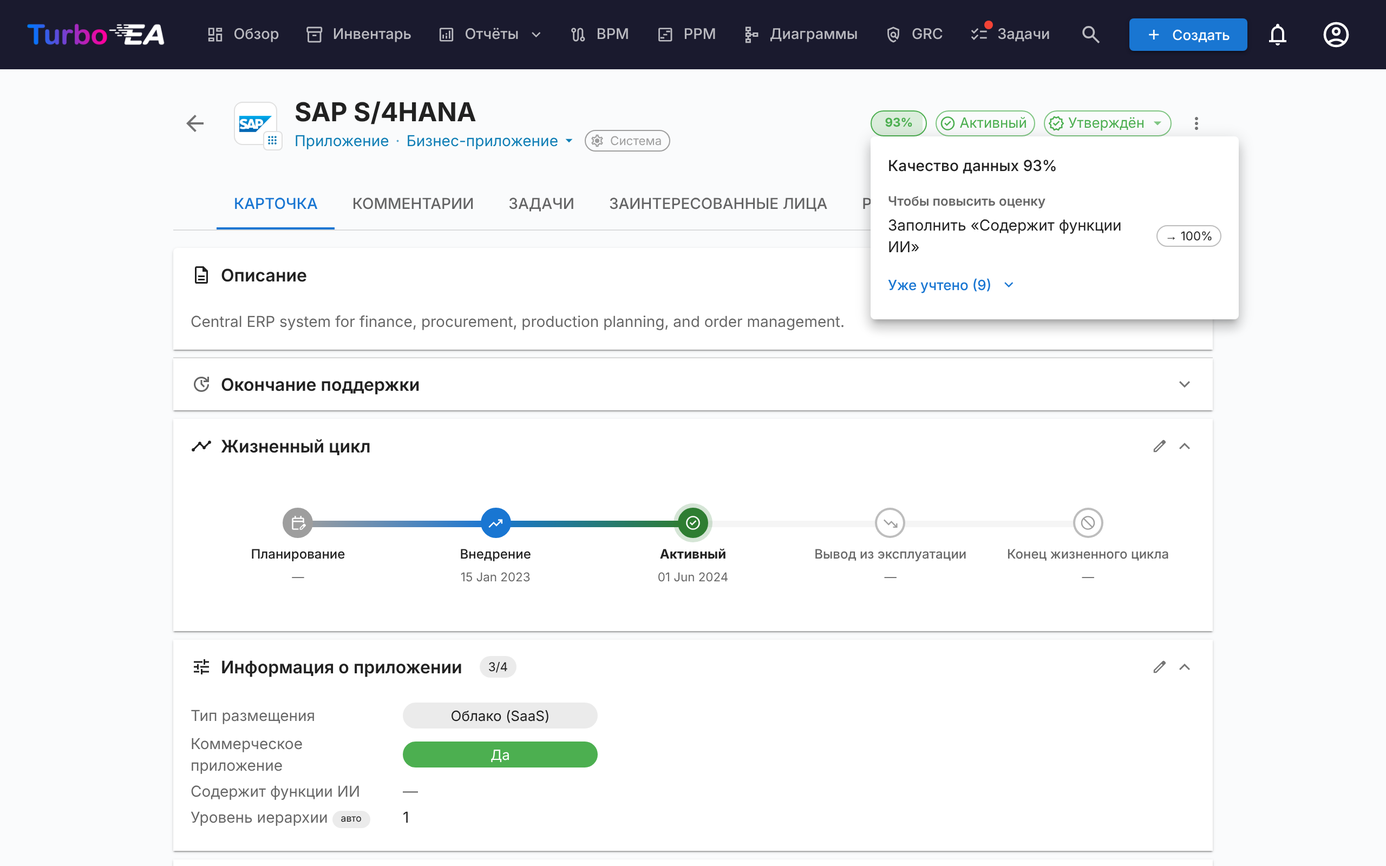
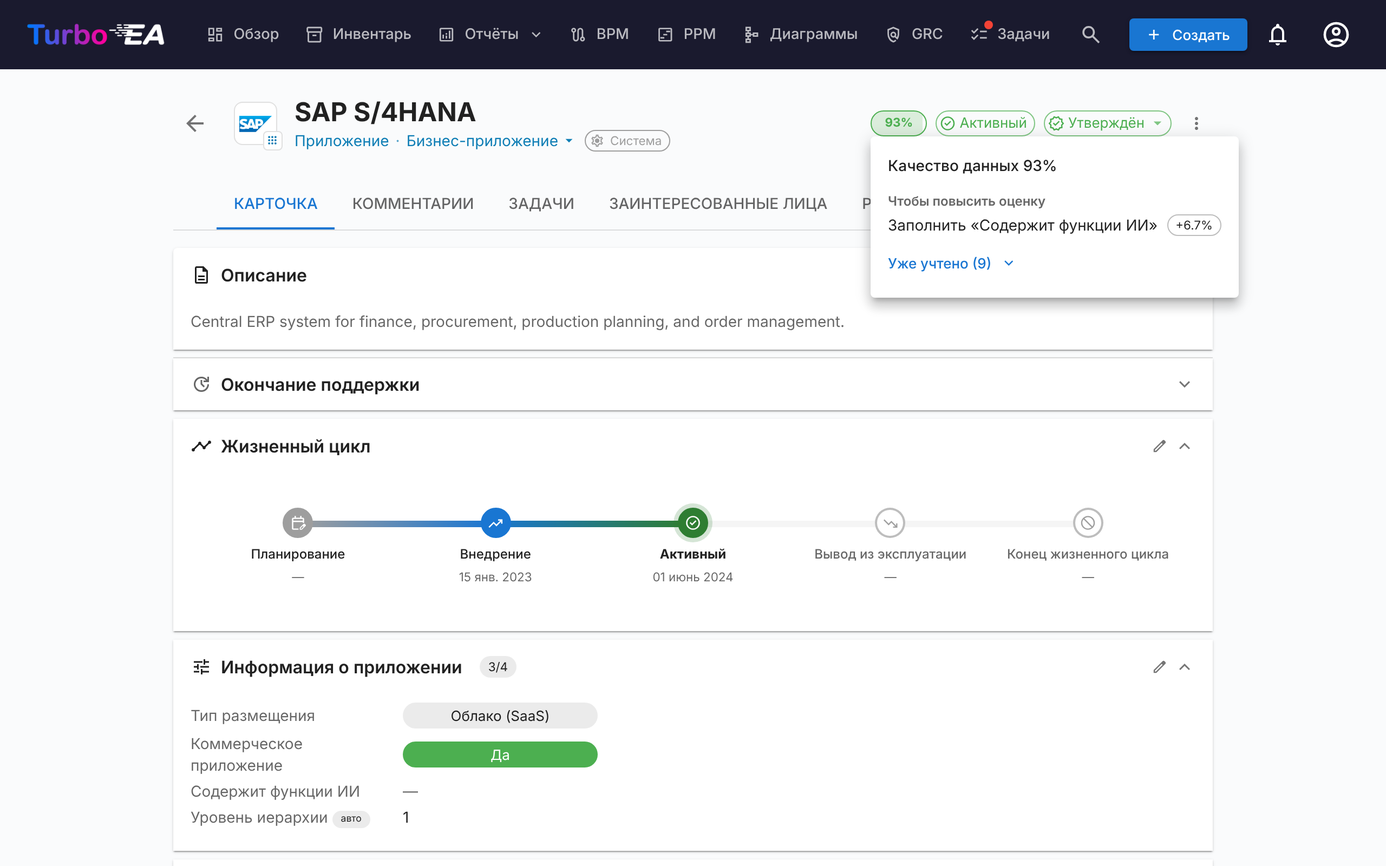
Show how many points each slot adds instead of the score it would reach
Testing feedback: a reader wants to see by how much each slot raises the
score, not the total it would land on. The breakdown now carries `gain`
(the slot's weight over the total, rounded like the score) and the
tooltip and popover print it as "+12.5%"; `score_if_filled` stays in the
payload. Ranking is by gain, which orders the same. Docs, the ten
screenshots and the changelog entry follow; the locale strings are pure
placeholders, so they are updated in place.

Claude-Session: https://claude.ai/code/session_01Ta83Qyy54YWobhp9a3NRKN

diff --git a/frontend/src/features/cards/sections/DataQualityPill.test.tsx b/frontend/src/features/cards/sections/DataQualityPill.test.tsx
@@ -54,14 +54,18 @@ const RELATION_TYPES = [
   },
 ] as unknown as RelationType[];
 
+/** The fixture card sits at 37.5%, so a slot's target score is that plus its gain. */
+const BASE_SCORE = 37.5;
+
 function factor(
   kind: DataQualityFactor["kind"],
   key: string,
   filled: boolean,
-  score_if_filled: number | null,
+  gain: number | null,
   extra: Partial<DataQualityFactor> = {},
 ): DataQualityFactor {
-  return { kind, key, weight: 1, filled, score_if_filled, ...extra };
+  const score_if_filled = gain === null ? null : Math.round((BASE_SCORE + gain) * 10) / 10;
+  return { kind, key, weight: 1, filled, gain, score_if_filled, ...extra };
 }
 
 /** Five unmet slots (one clear winner, then ties in server order), two met. */
@@ -73,16 +77,16 @@ const BREAKDOWN: DataQualityBreakdown = {
   blocked_by_required: [],
   factors: [
     factor("field", "team", true, null, { section: "Details" }),
-    factor("field", "cost", false, 62.5, { section: "Details", weight: 2 }),
+    factor("field", "cost", false, 25, { section: "Details", weight: 2 }),
     factor("description", "description", true, null),
-    factor("lifecycle", "lifecycle", false, 50),
-    factor("relation", "relOrgToApp", false, 50, {
+    factor("lifecycle", "lifecycle", false, 12.5),
+    factor("relation", "relOrgToApp", false, 12.5, {
       side: "target",
       other_type_key: "Organization",
       label: "is owned by",
     }),
-    factor("tag_group", "g-1", false, 50, { name: "Criticality" }),
-    factor("stakeholders", "stakeholders", false, 50),
+    factor("tag_group", "g-1", false, 12.5, { name: "Criticality" }),
+    factor("stakeholders", "stakeholders", false, 12.5),
   ],
 };
 
@@ -127,10 +131,10 @@ describe("DataQualityPill", () => {
     const lines = Array.from(tip.querySelectorAll(".MuiTypography-root")).map((el) => el.textContent);
     expect(lines).toEqual([
       "38% data quality",
-      "Fill Annual Cost → 62.5%",
-      "Set lifecycle dates → 50%",
+      "Fill Annual Cost +25%",
+      "Set lifecycle dates +12.5%",
       // A target-side relation reads with its reverse verb.
-      "Add relation: is owned by Organization → 50%",
+      "Add relation: is owned by Organization +12.5%",
       "+2 more · click for details",
     ]);
     // Already-counted slots are not suggestions.
@@ -152,7 +156,7 @@ describe("DataQualityPill", () => {
     });
     renderPill();
     const tip = await hoverPill();
-    await waitFor(() => expect(tip).toHaveTextContent("Set lifecycle dates → 50%"));
+    await waitFor(() => expect(tip).toHaveTextContent("Set lifecycle dates +12.5%"));
     expect(tip).not.toHaveTextContent("more");
   });
 
@@ -161,16 +165,16 @@ describe("DataQualityPill", () => {
       ...BREAKDOWN,
       // Served smallest gain first, and one tag group without a name.
       factors: [
-        factor("tag_group", "g-9", false, 30, { name: null }),
-        factor("lifecycle", "lifecycle", false, 50),
-        factor("field", "cost", false, 62.5, { section: "Details", weight: 2 }),
+        factor("tag_group", "g-9", false, 5, { name: null }),
+        factor("lifecycle", "lifecycle", false, 12.5),
+        factor("field", "cost", false, 25, { section: "Details", weight: 2 }),
       ],
     });
     renderPill();
     const tip = await hoverPill();
-    await waitFor(() => expect(tip).toHaveTextContent("Tag with → 30%"));
+    await waitFor(() => expect(tip).toHaveTextContent("Tag with +5%"));
     expect(tip).toHaveTextContent(
-      "38% data qualityFill Annual Cost → 62.5%Set lifecycle dates → 50%Tag with → 30%",
+      "38% data qualityFill Annual Cost +25%Set lifecycle dates +12.5%Tag with +5%",
     );
     expect(tip).not.toHaveTextContent("more");
   });
@@ -284,11 +288,11 @@ describe("DataQualityPill", () => {
       .getAllByRole("listitem")
       .map((li) => li.textContent);
     expect(rows).toEqual([
-      "Fill Annual Cost→ 62.5%",
-      "Set lifecycle dates→ 50%",
-      "Add relation: is owned by Organization→ 50%",
-      "Tag with Criticality→ 50%",
-      "Assign a stakeholder→ 50%",
+      "Fill Annual Cost+25%",
+      "Set lifecycle dates+12.5%",
+      "Add relation: is owned by Organization+12.5%",
+      "Tag with Criticality+12.5%",
+      "Assign a stakeholder+12.5%",
     ]);
     // Counted slots sit behind a toggle, by name.
     expect(within(dialog).queryByText("Team")).not.toBeInTheDocument();
@@ -318,7 +322,7 @@ describe("DataQualityPill", () => {
       blocked_by_required: ["code", "cost"],
       // `code` weighs less than the optional lifecycle slot: by gain alone it
       // would sink below the slots that cannot move the score yet.
-      factors: [...BREAKDOWN.factors, factor("field", "code", false, 45.8, { section: "Details" })],
+      factors: [...BREAKDOWN.factors, factor("field", "code", false, 8.3, { section: "Details" })],
     });
     renderPill(0);
     const tip = await hoverPill();
@@ -328,7 +332,7 @@ describe("DataQualityPill", () => {
     // The gating fields lead, marked as required rather than with a figure
     // that filling them alone cannot reach.
     expect(tip).toHaveTextContent(
-      "Fill Annual Cost → requiredFill Business Code → requiredSet lifecycle dates → 50%+3 more",
+      "Fill Annual Cost → requiredFill Business Code → requiredSet lifecycle dates +12.5%+3 more",
     );
     await userEvent.unhover(screen.getByText("0%"));
     await userEvent.click(screen.getByTestId("data-quality-pill"));
@@ -343,7 +347,7 @@ describe("DataQualityPill", () => {
     expect(rows.slice(0, 3)).toEqual([
       "Fill Annual Cost→ required",
       "Fill Business Code→ required",
-      "Set lifecycle dates→ 50%",
+      "Set lifecycle dates+12.5%",
     ]);
   });
 
@@ -352,12 +356,12 @@ describe("DataQualityPill", () => {
     vi.mocked(api.get).mockResolvedValue({
       ...BREAKDOWN,
       factors: [
-        factor("relation", "relOrgToApp", false, 50, {
+        factor("relation", "relOrgToApp", false, 12.5, {
           side: "source",
           other_type_key: "Application",
           label: "owns",
         }),
-        factor("relation", "relOrgToApp", false, 50, {
+        factor("relation", "relOrgToApp", false, 12.5, {
           side: "target",
           other_type_key: "Organization",
           label: "is owned by",
@@ -376,7 +380,7 @@ describe("DataQualityPill", () => {
   it("never shows a field's key when the metamodel does not know the field", async () => {
     vi.mocked(api.get).mockResolvedValue({
       ...BREAKDOWN,
-      factors: [factor("field", "ghostField", false, 80), factor("relation", "ghostRel", false, 70)],
+      factors: [factor("field", "ghostField", false, 42.5), factor("relation", "ghostRel", false, 32.5)],
       blocked_by_required: ["ghostField"],
     });
     renderPill();

diff --git a/frontend/src/features/cards/sections/DataQualityPill.tsx b/frontend/src/features/cards/sections/DataQualityPill.tsx
@@ -54,7 +54,7 @@ function rankUnmet(factors: DataQualityFactor[], blocked: string[]): DataQuality
   return factors
     .filter((f) => !f.filled)
     .sort(
-      (a, b) => unlocks(b) - unlocks(a) || (b.score_if_filled ?? 0) - (a.score_if_filled ?? 0),
+      (a, b) => unlocks(b) - unlocks(a) || (b.gain ?? 0) - (a.gain ?? 0),
     );
 }
 
@@ -167,13 +167,13 @@ export function DataQualityPill({
   const blocked = useMemo(() => data?.blocked_by_required ?? [], [data]);
   const unmet = useMemo(() => (data ? rankUnmet(data.factors, blocked) : []), [data, blocked]);
   const met = useMemo(() => (data ? data.factors.filter((f) => f.filled) : []), [data]);
-  // What filling the slot does to the score. A gating field shows no figure:
-  // its own `score_if_filled` is unreachable while another required field is
-  // still empty, and the alert already says what the score would be.
+  // What filling the slot adds to the score. A gating field shows no figure:
+  // nothing moves the score while another required field is still empty, and
+  // the alert already says what the score would be.
   const gain = (f: DataQualityFactor) =>
     unlocksScore(f, blocked)
       ? t("dataQuality.required")
-      : t("dataQuality.raiseTo", { pct: f.score_if_filled });
+      : t("dataQuality.raiseTo", { pct: f.gain });
 
   const headline = t("utils.dataQuality", { value: v });
   const tooltip =

diff --git a/frontend/src/types/index.ts b/frontend/src/types/index.ts
@@ -629,6 +629,8 @@ export interface DataQualityFactor {
   filled: boolean;
   /** The score the card would reach with this slot filled too; null once it counts. */
   score_if_filled: number | null;
+  /** How many points filling this slot adds to the score; null once it counts. */
+  gain: number | null;
   /** Field: the section it sits in. */
   section?: string | null;
   /** Relation: which end this card is on, and the other end's card type. */

diff --git a/backend/tests/services/test_data_quality.py b/backend/tests/services/test_data_quality.py
@@ -998,6 +998,23 @@ class TestScoreBreakdown:
 
         empty = ScoreBreakdown(0.0, 0.0, 0.0, 0.0, [], [])
         assert empty.score_if_filled(Factor("field", "a", 1.0, False)) == 0.0
+        assert empty.gain(Factor("field", "a", 1.0, False)) == 0.0
+
+    async def test_gain_is_the_slot_weight_over_the_total(self):
+        from app.services.data_quality import CardFacts, score_breakdown
+
+        ctx, _ = _breakdown_ctx()
+        bd = score_breakdown(self._card(), ctx, CardFacts())
+        by_key = {f.key: f for f in bd.factors}
+        # Of 13: b weighs 2, relB 2, stakeholders 3, a 1 — rounded to one decimal.
+        assert bd.gain(by_key["b"]) == 15.4
+        assert bd.gain(by_key["relB"]) == 15.4
+        assert bd.gain(by_key["stakeholders"]) == 23.1
+        assert bd.gain(by_key["a"]) == 7.7
+        # Gain and target agree: filling b alone lands on ungated + gain (to rounding).
+        assert (
+            abs(bd.score_if_filled(by_key["b"]) - (bd.ungated_score + bd.gain(by_key["b"]))) < 0.11
+        )
 
     async def test_nothing_to_score_is_an_empty_breakdown(self):
         from app.services.data_quality import CardFacts, score_breakdown

diff --git a/backend/tests/api/test_data_quality_breakdown.py b/backend/tests/api/test_data_quality_breakdown.py
@@ -123,8 +123,16 @@ async def test_lists_every_slot_and_what_filling_it_would_reach(client, env):
         ("tag_group", str(env["group"].id)): 50.0,
         ("stakeholders", "stakeholders"): 50.0,
     }
+    # What each unmet slot adds: its weight over the total of 8.
+    assert {k: f["gain"] for k, f in rows.items() if not f["filled"]} == {
+        ("field", "cost"): 25.0,
+        ("lifecycle", "lifecycle"): 12.5,
+        ("tag_group", str(env["group"].id)): 12.5,
+        ("stakeholders", "stakeholders"): 12.5,
+    }
     # A slot that already counts has nothing to gain.
     assert rows[("field", "team")]["score_if_filled"] is None
+    assert rows[("field", "team")]["gain"] is None
     assert rows[("field", "team")]["section"] == "Details"
     rel = rows[("relation", "relAppToOrg")]
     assert rel["filled"] is True

diff --git a/backend/app/services/data_quality.py b/backend/app/services/data_quality.py
@@ -216,6 +216,12 @@ class ScoreBreakdown:
             return 0.0
         return round((self.filled_weight + factor.weight) / self.total_weight * 100, 1)
 
+    def gain(self, factor: Factor) -> float:
+        """How many points filling ``factor`` adds to the (ungated) score."""
+        if not self.total_weight:
+            return 0.0
+        return round(factor.weight / self.total_weight * 100, 1)
+
 
 def score_breakdown(card: Card, ctx: ScoringContext, facts: CardFacts) -> ScoreBreakdown:
     """A card's data-quality score with every factor that went into it.

diff --git a/backend/app/schemas/card.py b/backend/app/schemas/card.py
@@ -298,6 +298,8 @@ class DataQualityFactor(BaseModel):
     filled: bool
     # The score the card would reach with this slot filled too (unmet only).
     score_if_filled: float | None = None
+    # How many points filling this slot adds to the score (unmet only).
+    gain: float | None = None
     section: str | None = None
     side: Literal["source", "target"] | None = None
     other_type_key: str | None = None

diff --git a/backend/app/api/v1/cards.py b/backend/app/api/v1/cards.py
@@ -1256,6 +1256,7 @@ async def get_data_quality_breakdown(
                 weight=f.weight,
                 filled=f.filled,
                 score_if_filled=None if f.filled else breakdown.score_if_filled(f),
+                gain=None if f.filled else breakdown.gain(f),
                 section=f.section,
                 side=f.side,
                 other_type_key=f.other_type_key,

diff --git a/docs/guide/card-details.ru.md b/docs/guide/card-details.ru.md
@@ -15,7 +15,7 @@
 - **Значок источника** — отображается, если карточка создана не в веб-интерфейсе: **MCP** — для карточки, созданной ИИ-ассистентом через [MCP-сервер](../admin/mcp.md), **API** — для скрипта или интеграции, **Расширение** — для установленного расширения, **Система** — для фонового задания. Наведите на него курсор, чтобы увидеть, кто и когда создал карточку: создателем остаётся человек, а значок показывает, каким каналом он воспользовался. Карточки, созданные в веб-интерфейсе, и карточки, созданные до того, как Turbo EA начал фиксировать канал, значка не имеют.
 - **Значок статуса утверждения** — Черновик, Утверждено, Нарушено или Отклонено
 - **Кнопка ИИ-подсказки** — нажмите для генерации описания с помощью ИИ (видна, когда ИИ включён для данного типа карточки и пользователь имеет права на редактирование)
-- **Кольцо качества данных** — визуальный индикатор полноты информации (0–100%). Наведите курсор, чтобы увидеть три пункта, которые сильнее всего повысили бы оценку, — у каждого указана оценка, которую карточка получит после заполнения (например, *Заполнить «Критичность для бизнеса» → 62,5%*). Нажмите на кольцо (или сфокусируйте его и нажмите Enter), чтобы открыть полную детализацию: все ещё не заполненные пункты в порядке убывания вклада и список **Уже учтено** с тем, что уже заполнено. Пока обязательное поле пусто, оценка остаётся равной 0%; детализация называет эти поля и показывает, какой была бы оценка без них.
+- **Кольцо качества данных** — визуальный индикатор полноты информации (0–100%). Наведите курсор, чтобы увидеть три пункта, которые сильнее всего повысили бы оценку, — у каждого указано, сколько баллов он добавит (например, *Заполнить «Критичность для бизнеса» +12,5%*). Нажмите на кольцо (или сфокусируйте его и нажмите Enter), чтобы открыть полную детализацию: все ещё не заполненные пункты в порядке убывания вклада и список **Уже учтено** с тем, что уже заполнено. Пока обязательное поле пусто, оценка остаётся равной 0%; детализация называет эти поля и показывает, какой была бы оценка без них.
 
 ![Всплывающее окно с детализацией качества данных](../assets/img/ru/63_kartochka_kachestvo_dannyh_detalizatsiya.png)
 - **Меню действий** — архивирование, удаление и действия по утверждению. Также содержит действие в один клик **Наблюдать за этой карточкой** (если для типа карточки определена роль Наблюдатель), позволяющее любому пользователю с правом просмотра следить за карточкой без перехода на вкладку Заинтересованные стороны.

diff --git a/docs/guide/card-details.ar.md b/docs/guide/card-details.ar.md
@@ -15,7 +15,7 @@
 - **شارة المصدر** — تظهر عندما لا تكون البطاقة قد أُنشئت في واجهة الويب: **MCP** لبطاقة أنشأها مساعد ذكاء اصطناعي عبر [خادم MCP](../admin/mcp.md)، و**API** لسكربت أو تكامل، و**إضافة** لإضافة مثبّتة، و**النظام** لمهمة في الخلفية. مرّر المؤشر فوقها لمعرفة من أنشأ البطاقة ومتى — يبقى الشخص هو المنشئ؛ وتبيّن الشارة القناة التي استخدمها. البطاقات المنشأة في واجهة الويب، وتلك المنشأة قبل أن يسجّل Turbo EA القناة، لا تُظهر شارة.
 - **شارة حالة الموافقة** — مسوّدة، مُعتمَد، معطوب، أو مرفوض
 - **زر اقتراح الذكاء الاصطناعي** — انقر لإنشاء وصف بالذكاء الاصطناعي (مرئي عند تمكين الذكاء الاصطناعي لنوع البطاقة هذا ولدى المستخدم إذن التحرير)
-- **حلقة جودة البيانات** — مؤشّر بصري لاكتمال المعلومات (0–100%). مرّر المؤشّر فوقها لرؤية الأمور الثلاثة التي سترفع الدرجة أكثر من غيرها، مع الدرجة التي ستبلغها البطاقة بعد تعبئة كل منها (مثلًا *املأ أهمية الأعمال ← 62.5%*). انقر عليها (أو ركّز عليها واضغط Enter) لعرض التفصيل الكامل: كل خانة لا تزال بحاجة إلى تعبئة، مرتبة حسب مقدار ما تضيفه، وقائمة **محتسب بالفعل** بما هو موجود. وما دام حقل إلزامي فارغًا تبقى الدرجة 0%؛ ويسمّي التفصيل هذه الحقول ويبيّن الدرجة التي ستكون عليها بدونها.
+- **حلقة جودة البيانات** — مؤشّر بصري لاكتمال المعلومات (0–100%). مرّر المؤشّر فوقها لرؤية الأمور الثلاثة التي سترفع الدرجة أكثر من غيرها، مع عدد النقاط التي ستضيفها (مثلًا *املأ أهمية الأعمال +12.5%*). انقر عليها (أو ركّز عليها واضغط Enter) لعرض التفصيل الكامل: كل خانة لا تزال بحاجة إلى تعبئة، مرتبة حسب مقدار ما تضيفه، وقائمة **محتسب بالفعل** بما هو موجود. وما دام حقل إلزامي فارغًا تبقى الدرجة 0%؛ ويسمّي التفصيل هذه الحقول ويبيّن الدرجة التي ستكون عليها بدونها.
 
 ![نافذة منبثقة بتفصيل جودة البيانات](../assets/img/ar/63_card_data_quality_breakdown.png)
 - **قائمة الإجراءات** — إجراءات الأرشفة والحذف والموافقة. تتضمّن أيضًا مفتاح تبديل **مراقبة هذه البطاقة** بنقرة واحدة (عندما يحدّد نوع البطاقة دور مراقب) فيمكن لأي مستخدم لديه صلاحية العرض متابعة البطاقة دون المرور بعلامة تبويب أصحاب المصلحة.

diff --git a/docs/guide/card-details.de.md b/docs/guide/card-details.de.md
@@ -15,7 +15,7 @@ Der obere Bereich der Karte zeigt:
 - **Herkunfts-Chip** — Wird angezeigt, wenn die Karte nicht in der Weboberfläche erstellt wurde: **MCP** für eine Karte, die ein KI-Assistent über den [MCP-Server](../admin/mcp.md) angelegt hat, **API** für ein Skript oder eine Integration, **Erweiterung** für eine installierte Erweiterung, **System** für einen Hintergrundjob. Fahren Sie mit der Maus darüber, um zu sehen, wer die Karte wann erstellt hat — die Person bleibt der Ersteller; der Chip nennt den genutzten Kanal. Karten, die in der Weboberfläche erstellt wurden, sowie Karten, die vor der Erfassung des Kanals durch Turbo EA angelegt wurden, zeigen keinen Chip.
 - **Genehmigungsstatus-Badge** — Entwurf, Genehmigt, Ungültig oder Abgelehnt
 - **KI-Vorschlags-Schaltfläche** — Klicken, um eine Beschreibung mit KI zu generieren (sichtbar, wenn KI für diesen Kartentyp aktiviert ist und der Benutzer Bearbeitungsrechte hat)
-- **Datenqualitätsring** — Visueller Indikator der Informationsvollständigkeit (0–100%). Fahren Sie mit der Maus darüber, um die drei Punkte zu sehen, die den Wert am stärksten erhöhen würden, jeweils mit dem Wert, den die Karte nach dem Ausfüllen erreichen würde (zum Beispiel *Geschäftskritikalität ausfüllen → 62,5%*). Klicken Sie darauf (oder fokussieren Sie ihn und drücken Sie die Eingabetaste) für die vollständige Aufschlüsselung: jeder noch auszufüllende Slot, sortiert nach seinem Beitrag, und eine Liste **Bereits berücksichtigt** mit allem, was vorhanden ist. Solange ein Pflichtfeld leer ist, bleibt der Wert bei 0%; die Aufschlüsselung nennt diese Felder und zeigt, wie hoch der Wert ohne sie wäre.
+- **Datenqualitätsring** — Visueller Indikator der Informationsvollständigkeit (0–100%). Fahren Sie mit der Maus darüber, um die drei Punkte zu sehen, die den Wert am stärksten erhöhen würden, jeweils mit der Punktzahl, die sie hinzufügen würde (zum Beispiel *Geschäftskritikalität ausfüllen +12,5%*). Klicken Sie darauf (oder fokussieren Sie ihn und drücken Sie die Eingabetaste) für die vollständige Aufschlüsselung: jeder noch auszufüllende Slot, sortiert nach seinem Beitrag, und eine Liste **Bereits berücksichtigt** mit allem, was vorhanden ist. Solange ein Pflichtfeld leer ist, bleibt der Wert bei 0%; die Aufschlüsselung nennt diese Felder und zeigt, wie hoch der Wert ohne sie wäre.
 
 ![Popover mit der Datenqualitäts-Aufschlüsselung](../assets/img/de/63_karte_datenqualitaet_aufschluesselung.png)
 - **Aktionsmenü** — Archivieren, Löschen und Genehmigungsaktionen. Enthält außerdem eine Ein-Klick-Aktion **Diese Karte beobachten** (sofern der Kartentyp eine Beobachter-Rolle definiert), mit der jeder Benutzer mit Leserechten der Karte folgen kann, ohne den Stakeholder-Tab zu öffnen.

diff --git a/docs/guide/card-details.es.md b/docs/guide/card-details.es.md
@@ -15,7 +15,7 @@ La parte superior de la ficha muestra:
 - **Insignia de origen** — Se muestra cuando la ficha no se creó en la interfaz web: **MCP** para una ficha creada por un asistente de IA a través del [servidor MCP](../admin/mcp.md), **API** para un script o una integración, **Extensión** para una extensión instalada, **Sistema** para una tarea en segundo plano. Pase el cursor sobre ella para ver quién creó la ficha y cuándo: la persona sigue siendo el creador; la insignia indica qué canal usó. Las fichas creadas en la interfaz web, y las creadas antes de que Turbo EA registrara el canal, no muestran insignia.
 - **Insignia de estado de aprobación** — Borrador, Aprobado, Roto o Rechazado
 - **Botón de sugerencia IA** — Haga clic para generar una descripción con IA (visible cuando la IA está habilitada para este tipo de ficha y el usuario tiene permiso de edición)
-- **Anillo de calidad de datos** — Indicador visual de la completitud de la información (0–100%). Pase el cursor por encima para ver las tres cosas que más aumentarían la puntuación, cada una con la puntuación que alcanzaría la ficha una vez completada (por ejemplo *Completar Criticidad del negocio → 62,5%*). Haga clic en él (o enfóquelo y pulse Intro) para ver el desglose completo: cada elemento aún por completar, ordenado según lo que aporta, y una lista **Ya contabilizado** con lo que ya está en su sitio. Mientras un campo obligatorio esté vacío, la puntuación se mantiene en 0%; el desglose nombra esos campos y muestra cuál sería la puntuación sin ellos.
+- **Anillo de calidad de datos** — Indicador visual de la completitud de la información (0–100%). Pase el cursor por encima para ver las tres cosas que más aumentarían la puntuación, cada una con los puntos que añadiría (por ejemplo *Completar Criticidad del negocio +12,5%*). Haga clic en él (o enfóquelo y pulse Intro) para ver el desglose completo: cada elemento aún por completar, ordenado según lo que aporta, y una lista **Ya contabilizado** con lo que ya está en su sitio. Mientras un campo obligatorio esté vacío, la puntuación se mantiene en 0%; el desglose nombra esos campos y muestra cuál sería la puntuación sin ellos.
 
 ![Ventana emergente con el desglose de la calidad de datos](../assets/img/es/63_ficha_calidad_datos_desglose.png)
 - **Menú de acciones** — Archivar, eliminar y acciones de aprobación. También incluye una acción de un clic **Observar esta ficha** (cuando el tipo de ficha define un rol Observador), para que cualquier usuario con permiso de lectura pueda seguir la ficha sin pasar por la pestaña de Partes interesadas.
